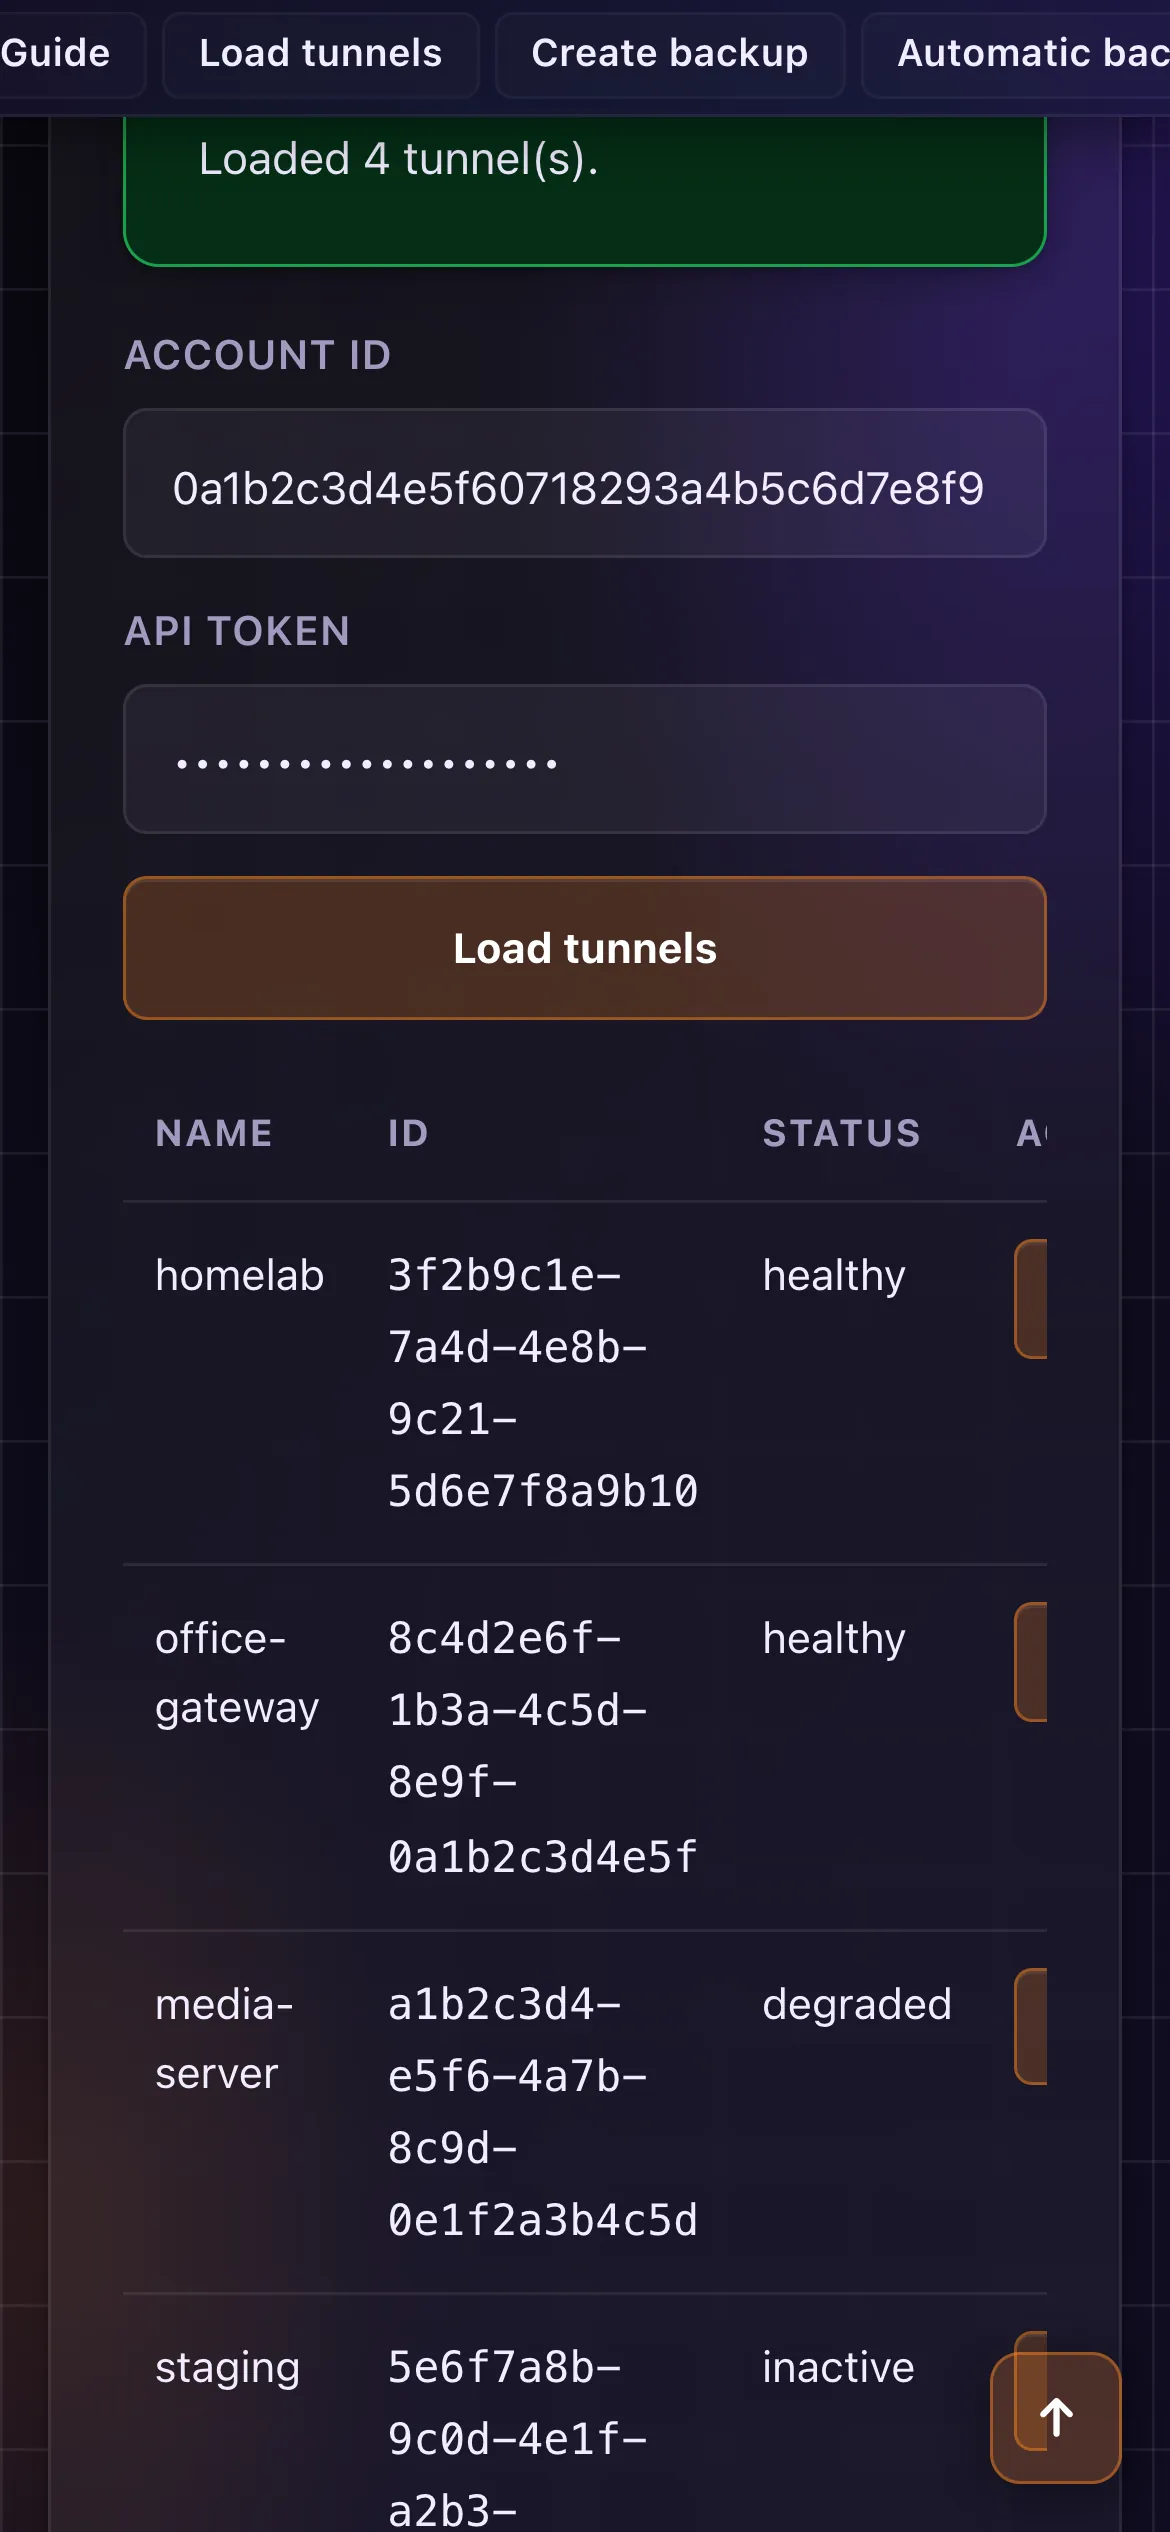
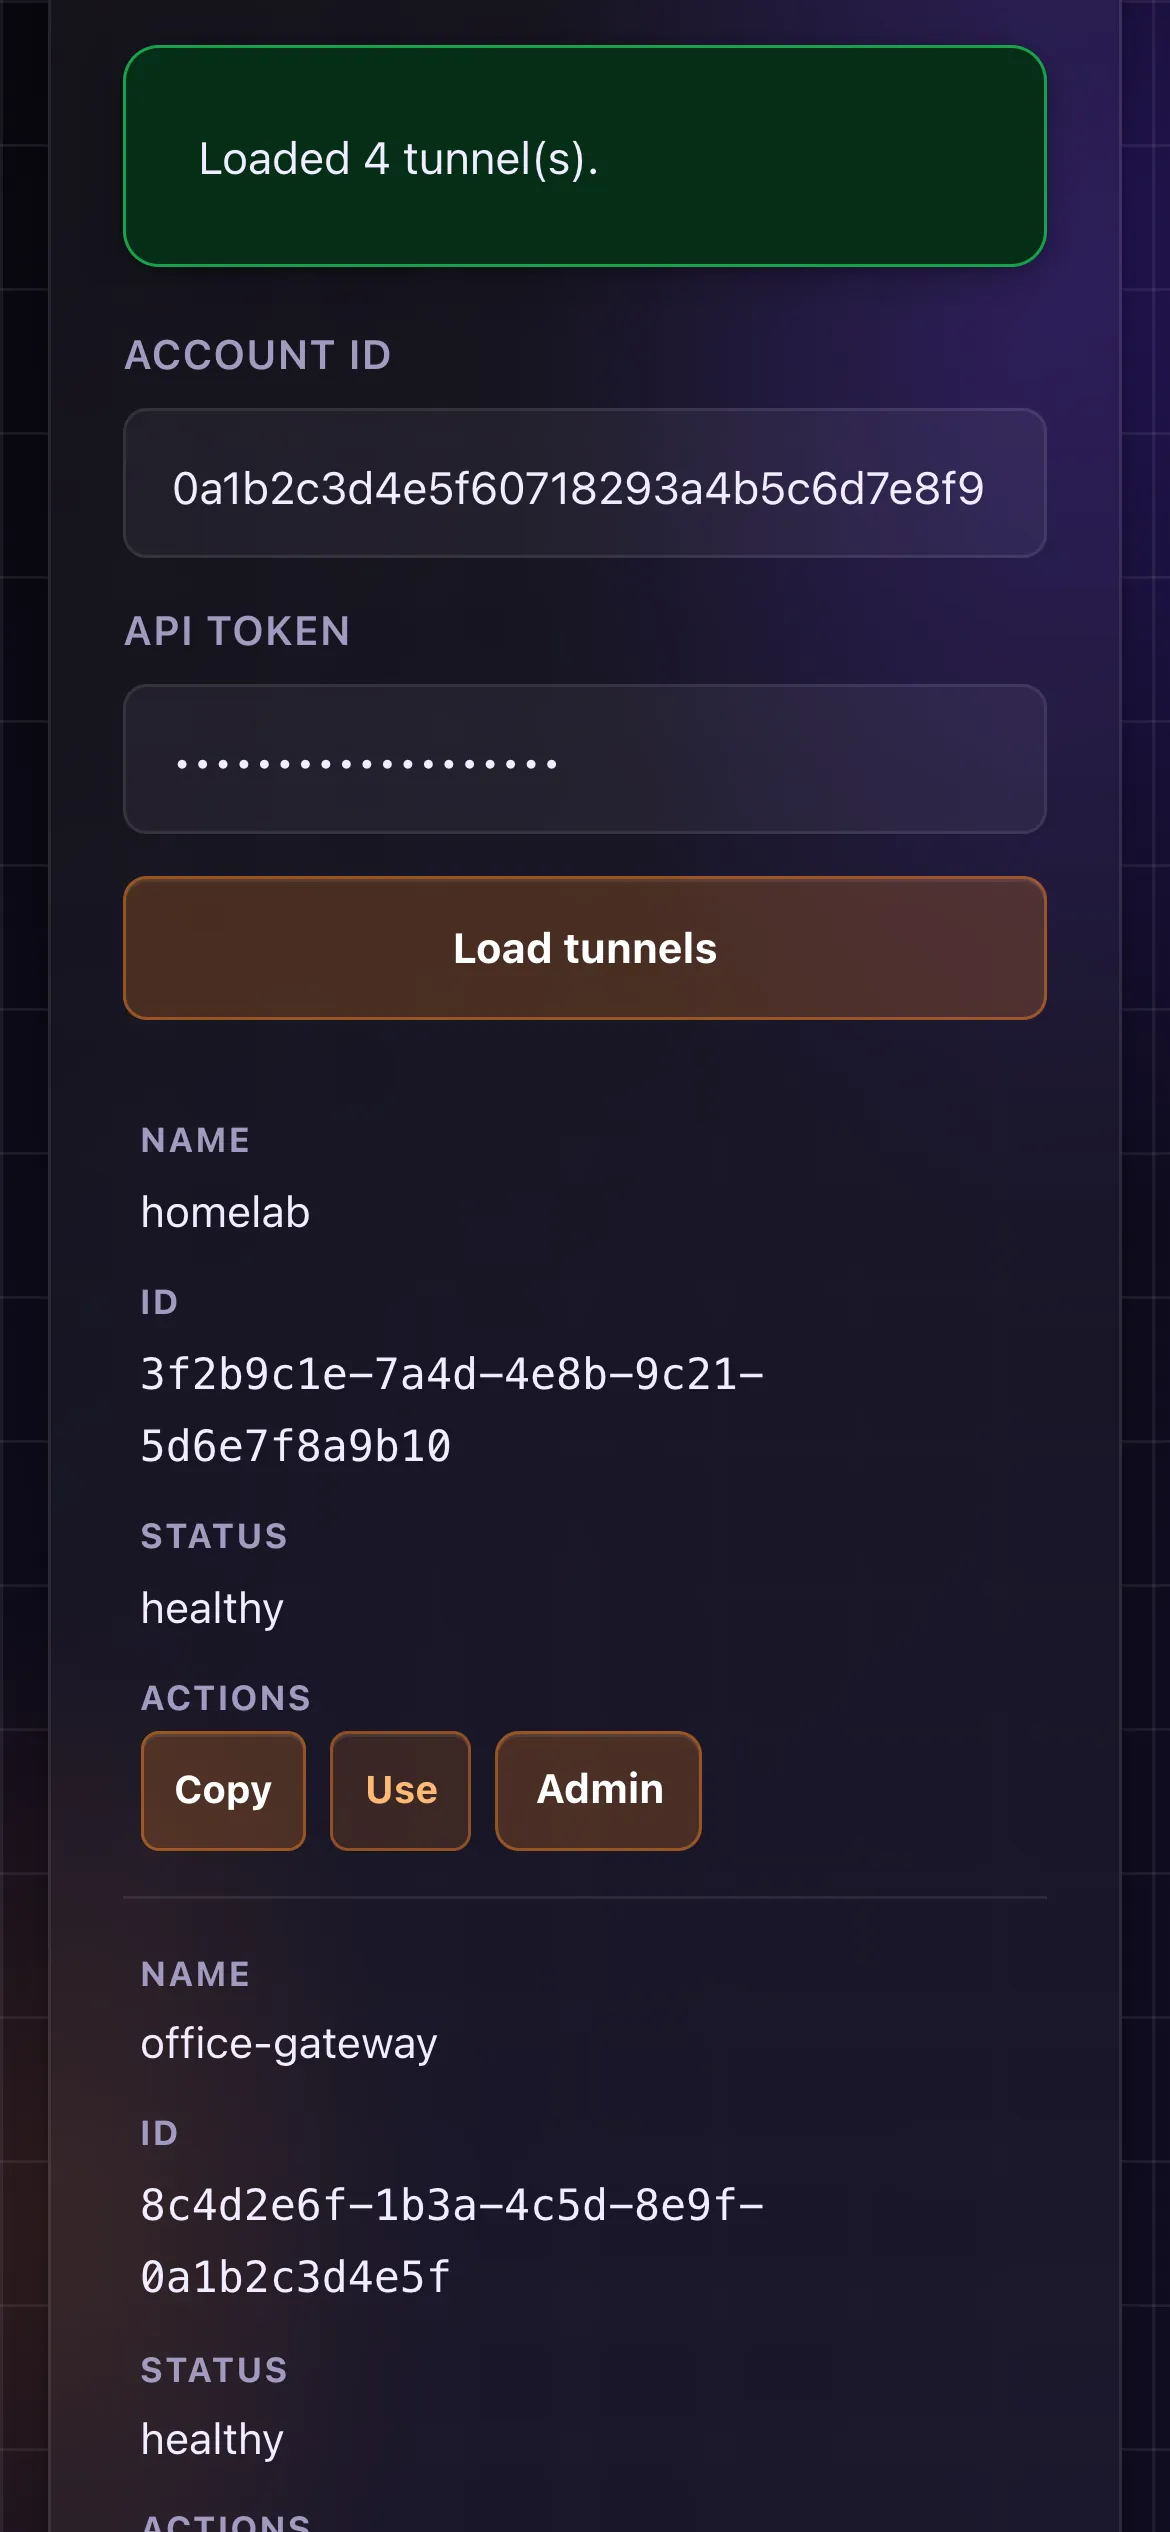
docs: website mobile screenshot shows tables as cards

diff --git a/docs/index.html b/docs/index.html
@@ -623,9 +623,9 @@
       </div>
       <div>
         <div class="shot-phone">
-          <img src="img/dashboard-mobile.webp" width="1170" height="2532" loading="lazy" alt="Tikka Masala home page on a phone">
+          <img src="img/dashboard-mobile.webp" width="1170" height="2532" loading="lazy" alt="Tunnel list on a phone: each tunnel shown as a card with name, ID, status and actions">
         </div>
-        <p class="shot-caption"><strong>Mobile.</strong> The web UI works on small screens too.</p>
+        <p class="shot-caption"><strong>Mobile.</strong> On phones, every table turns into cards, so nothing gets cut off.</p>
       </div>
     </div>
   </div>
